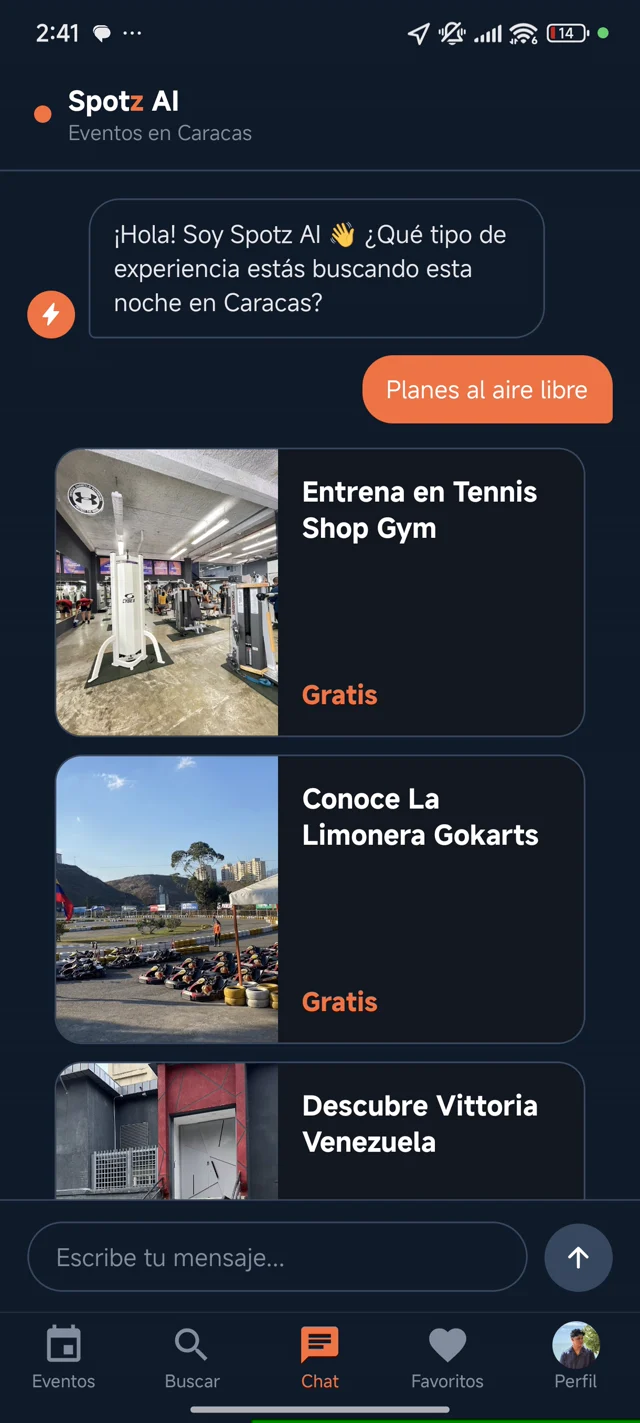
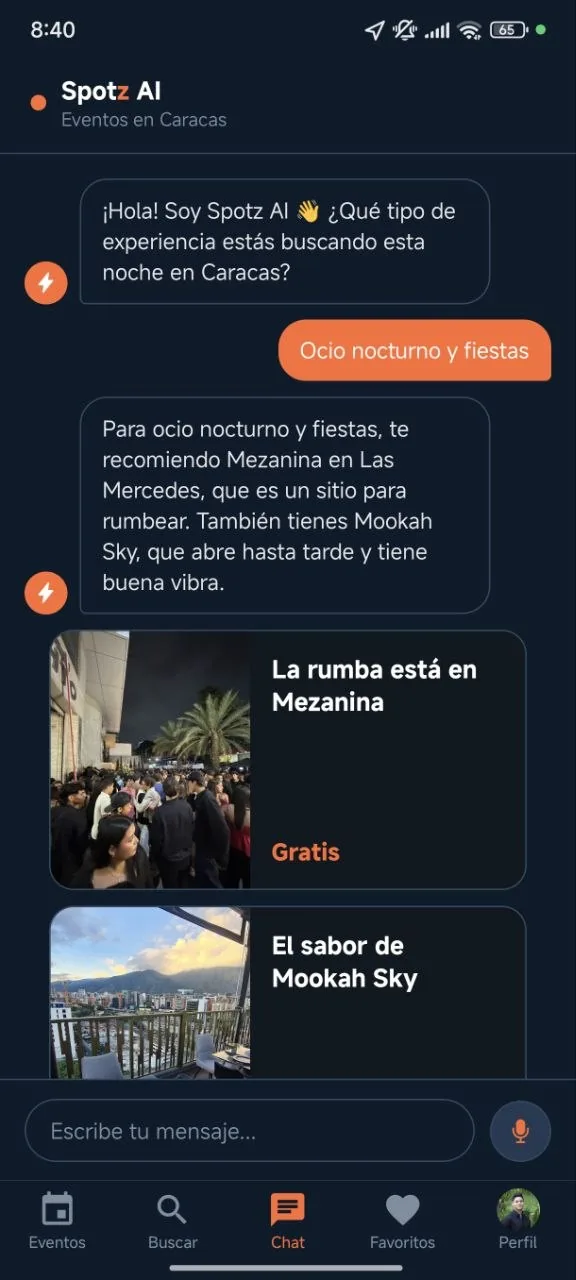
feat(landing): capturas de app actualizadas + mockup de mapa
- Reemplaza home/chat/favoritos con las nuevas capturas
- Añade el mapa como 4º paso en "Cómo funciona"
- terminos: correo de contacto actualizado

diff --git a/index.html b/index.html
@@ -171,10 +171,10 @@
 <section class="px-5 py-16 sm:py-24 max-w-6xl mx-auto">
   <div class="text-center mb-12">
     <div class="font-mono text-[10px] tracking-[0.2em] text-white/30 uppercase mb-3">Cómo funciona</div>
-    <h2 class="font-display font-black text-3xl sm:text-4xl tracking-tight">Tu próximo plan, en 3 toques.</h2>
+    <h2 class="font-display font-black text-3xl sm:text-4xl tracking-tight">Tu próximo plan, en pocos toques.</h2>
   </div>
 
-  <div class="grid grid-cols-1 sm:grid-cols-3 gap-10 sm:gap-6">
+  <div class="grid grid-cols-1 sm:grid-cols-2 lg:grid-cols-4 gap-10 sm:gap-6">
     <!-- 1 -->
     <div class="flex flex-col items-center text-center">
       <div class="phone w-[200px] mb-6"><img src="assets/app-home.webp" alt="Pantalla de descubrir eventos en Caracas" loading="lazy"></div>
@@ -189,8 +189,14 @@
     </div>
     <!-- 3 -->
     <div class="flex flex-col items-center text-center">
+      <div class="phone w-[200px] mb-6"><img src="assets/app-mapa.webp" alt="Mapa de eventos de Caracas en Spotz" loading="lazy"></div>
+      <h3 class="font-display font-bold text-lg mb-1.5">3 · Explora el mapa</h3>
+      <p class="text-white/45 text-sm leading-relaxed max-w-xs">Mira qué se mueve cerca de ti en el mapa de la ciudad y filtra por fecha, categoría y precio.</p>
+    </div>
+    <!-- 4 -->
+    <div class="flex flex-col items-center text-center">
       <div class="phone w-[200px] mb-6"><img src="assets/app-favoritos.webp" alt="Pantalla de favoritos guardados" loading="lazy"></div>
-      <h3 class="font-display font-bold text-lg mb-1.5">3 · Guarda y vive</h3>
+      <h3 class="font-display font-bold text-lg mb-1.5">4 · Guarda y vive</h3>
       <p class="text-white/45 text-sm leading-relaxed max-w-xs">Guarda tus planes, no te pierdas nada y vive lo mejor de la ciudad. (Pronto: compra tu ticket y asiste.)</p>
     </div>
   </div>

diff --git a/terminos.html b/terminos.html
@@ -88,7 +88,7 @@
       <section>
         <h2 class="font-display font-bold text-xl text-white mb-3">8. Privacidad</h2>
         <p class="mb-3">El tratamiento de tus datos personales (como tu correo y preferencias) se realiza para prestarte el Servicio. Recopilamos la información mínima necesaria para el funcionamiento de la App y no la vendemos a terceros. Puedes consultar los detalles en nuestra <a href="/privacidad" class="text-orange underline">Política de Privacidad</a>.</p>
-        <p>Para consultas sobre tus datos puedes escribirnos a <a href="mailto:hola@spotz.online" class="text-orange underline">hola@spotz.online</a>.</p>
+        <p>Para consultas sobre tus datos puedes escribirnos a <a href="mailto:somos.spotz@gmail.com" class="text-orange underline">somos.spotz@gmail.com</a>.</p>
       </section>
 
       <section>
